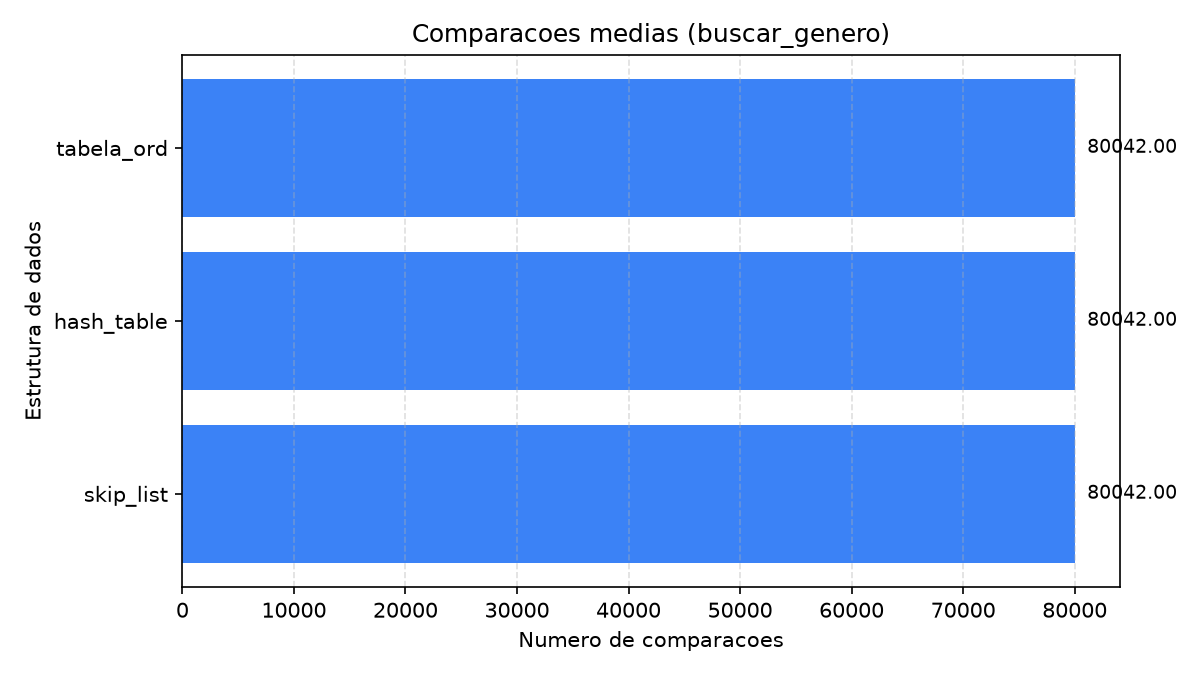
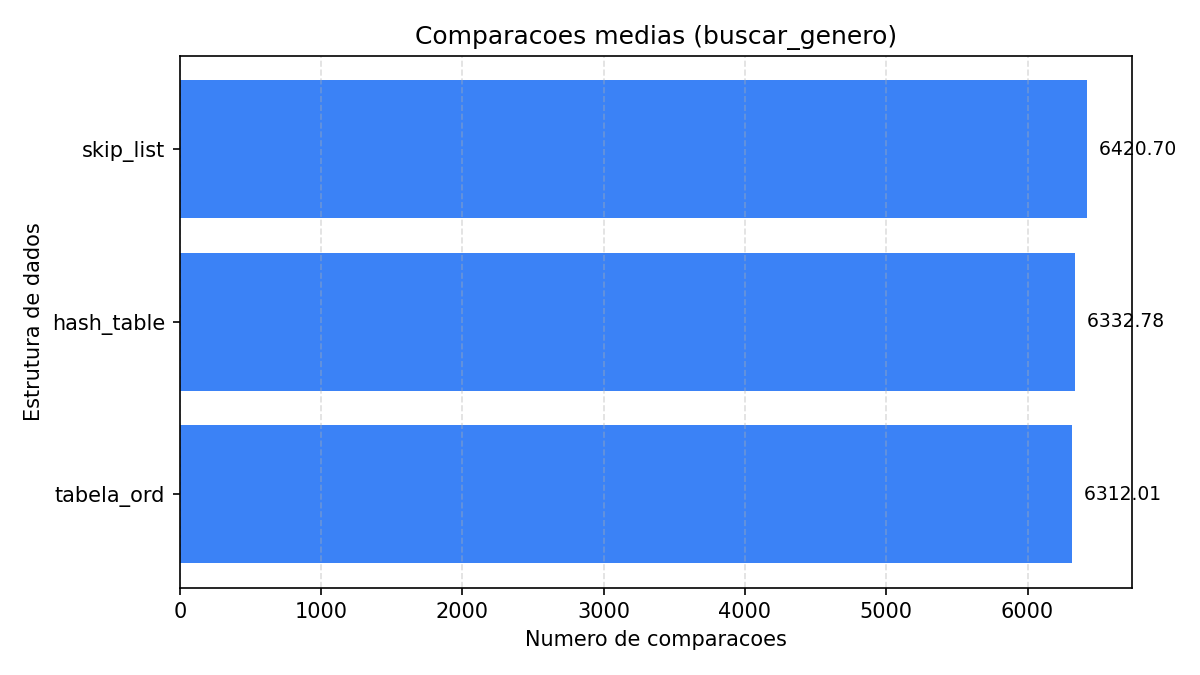
docs: benchmark nova ordenação e busca por genero e artista

diff --git a/scripts/plotar_benchmark.py b/scripts/plotar_benchmark.py
@@ -63,7 +63,7 @@ def main() -> None:
 
     base = entrada.stem
 
-    for operacao in ("buscar_artista", "buscar_genero"):
+    for operacao in ("buscar_artista", "buscar_genero", "buscar_genero_artista"):
         gerar_grafico(
             df, operacao, "media_ms",
             "Tempo medio de busca", "Tempo (ms)",

diff --git a/README.md b/README.md
@@ -14,17 +14,56 @@ A engine em C11 puro implementa os TADs `Obra`, `Resultado`, `Csv` e `Buscador`,
 
 ## Estruturas de dados
 
-| Estrutura | Busca por artista | Busca por gênero | Inserção |
-|---|---|---|---|
-| HashTable (encadeamento) | O(1) esperado | O(n) | O(1) esperado |
-| SkipList (probabilística) | O(log n) esperado | O(n) | O(log n) esperado |
-| TabelaOrd (lista indexada) | O(log n) | O(n) | O(n) |
+As três estruturas indexam pela mesma chave composta **(gênero, artista)**:
+gênero primário, artista secundário. `k` é o número de obras do bloco alcançado.
 
-A chave de ordenação e de hash é o artista. Gênero não é chave, então a busca por gênero é sempre varredura completa. Cada estrutura implementa a interface `Buscador`, uma vtable que permite plugar novas EDs no benchmark com uma linha de código.
+| Estrutura | Como aplica a chave | Busca por artista | Busca por gênero | Gênero + artista | Inserção |
+|---|---|---|---|---|---|
+| HashTable (encadeamento) | gênero no bucket, artista ordena a cadeia | O(n) | O(k) | O(k) | O(k) |
+| SkipList (probabilística) | nível 0 ordenado pela chave composta | O(n) | O(log n + k) esperado | O(log n + k) esperado | O(log n) esperado |
+| TabelaOrd (lista indexada) | array ordenado pela chave composta | O(n) | O(log n + k) | O(log n + k) | O(n) |
+
+Cada uma traduz a chave do jeito que a sua natureza permite. A **TabelaOrd**
+ordena o array e faz busca binária. A **SkipList** ordena o nível 0 e desce
+pelos níveis. A **HashTable** não tem ordem nenhuma, então parte a chave em
+duas: o gênero escolhe o bucket, o artista ordena a cadeia dentro dele.
+
+O efeito é comum às três: gênero e o par gênero+artista ficam rápidos, e a
+busca só por artista degenera em varredura completa, porque as obras de um
+mesmo artista ficam espalhadas entre os blocos de gênero.
+
+A HashTable paga essa tradução duas vezes. Só existem 27 gêneros, então a
+tabela tem 27 buckets ocupados com cadeias de milhares de nós — por isso a
+capacidade foi reduzida de 2^18 para 2^10 buckets, já que o que a dimensiona
+agora é o número de gêneros, não o de obras. E manter cada cadeia ordenada
+custa uma varredura por inserção, não O(1).
+
+Cada estrutura implementa a interface `Buscador`, uma vtable que permite plugar novas EDs no benchmark com uma linha de código.
 
 ## Resultados
 
-Benchmark sobre 80.042 obras, com 10.000 buscas por operação.
+Benchmark sobre 80.042 obras, com 10.000 buscas por operação. Dados brutos em
+`assets/bench_80k.csv`.
+
+| Estrutura | Operação | Tempo médio (ms) | Comparações médias |
+|---|---|---|---|
+| skip_list | buscar_artista | 2.3558 | 80042.00 |
+| skip_list | buscar_genero | 0.1558 | 6420.70 |
+| skip_list | buscar_genero_artista | **0.0094** | **284.12** |
+| hash_table | buscar_artista | 0.8876 | 40367.03 |
+| hash_table | buscar_genero | 0.1481 | 6332.78 |
+| hash_table | buscar_genero_artista | 0.0626 | 3526.26 |
+| tabela_ord | buscar_artista | 1.6900 | 80042.00 |
+| tabela_ord | buscar_genero | 0.1506 | 6312.01 |
+| tabela_ord | buscar_genero_artista | **0.0091** | **267.74** |
+
+Custo de carga das 80.042 obras:
+
+| Estrutura | Inserção (ms) |
+|---|---|
+| hash_table | 2075.75 |
+| tabela_ord | 138.29 |
+| skip_list | 55.05 |
 
 ### Busca por artista, número médio de comparações
 
@@ -42,7 +81,46 @@ Benchmark sobre 80.042 obras, com 10.000 buscas por operação.
 
 ![Busca por gênero, tempo](assets/graficos/bench_80k_buscar_genero_tempo.png)
 
-A HashTable vence a busca por artista (O(1) esperado), enquanto SkipList e TabelaOrd ficam parelhas em O(log n). A busca por gênero degenera para varredura linear em todas as estruturas, porque gênero não é chave de ordenação.
+### Busca por gênero e artista, número médio de comparações
+
+![Busca por gênero e artista, comparações](assets/graficos/bench_80k_buscar_genero_artista_comparacoes.png)
+
+### Busca por gênero e artista, tempo médio
+
+![Busca por gênero e artista, tempo](assets/graficos/bench_80k_buscar_genero_artista_tempo.png)
+
+**Busca por gênero.** As três empatam em torno de 6.300 comparações, e não é
+coincidência: esse é o tamanho médio do bloco de um gênero, ponderado pela
+chance de cada gênero ser sorteado. Chegar ao bloco é barato nas três, seja por
+busca binária, descida de níveis ou bucket. O que sobra é copiar o resultado, e
+isso ninguém evita.
+
+**Busca por gênero e artista.** Aqui aparece a diferença real. SkipList (284) e
+TabelaOrd (268) resolvem em poucas centenas de comparações, porque ambas
+localizam o bloco do par exato e só percorrem ele. A HashTable precisa de 3.526,
+uma ordem de grandeza a mais: o bucket resolve o gênero em O(1), mas o artista
+está dentro de uma cadeia encadeada, e lista encadeada não admite busca
+binária. Sobra percorrer metade da cadeia — cerca de 3.100 nós.
+
+**Busca por artista.** Degenera nas três, como esperado de uma chave
+secundária. SkipList e TabelaOrd pagam as 80.042 comparações cheias. A
+HashTable pagou 40.367, quase exatamente metade: como cada cadeia está ordenada
+por artista, a busca abandona o bucket assim que passa do nome procurado, e em
+média isso acontece no meio. É uma constante menor sobre o mesmo O(n).
+
+**Inserção.** O contraste mais forte da tabela. A HashTable saltou para 2.076 ms
+contra 55 ms da SkipList, 38x mais lenta. Manter ordenada uma cadeia de milhares
+de nós custa uma varredura a cada inserção, e são 80.042 delas. É o preço
+direto de usar ordenação dentro de uma estrutura que não foi feita para
+ordenar.
+
+**O balanço.** A chave composta acertou o alvo: `buscar_genero_artista`, a
+consulta que a interface realmente faz na navegação estilo → artista → obras,
+é a operação mais rápida das três estruturas. O custo foi empurrado para a
+busca só por artista, que nenhuma tela usa. Entre as três, SkipList e TabelaOrd
+absorveram bem a mudança; a HashTable ficou sendo a pior nas duas pontas que
+importam, busca composta e inserção, porque hash e ordenação resolvem problemas
+diferentes e forçar uma a imitar a outra cobra caro.
 
 ## Estrutura de pastas
 
@@ -81,7 +159,7 @@ make
 make test
 ```
 
-A suíte tem 61 testes. Para checar vazamentos:
+A suíte tem 81 testes. Para checar vazamentos:
 
 ```bash
 make test-valgrind
@@ -96,7 +174,7 @@ cd ..
 uv run python scripts/plotar_benchmark.py assets/bench_80k.csv
 ```
 
-Gera os quatro gráficos em `assets/graficos/`.
+Gera os seis gráficos em `assets/graficos/`, dois por operação medida.
 
 ### 4. Modo de listagem
 
